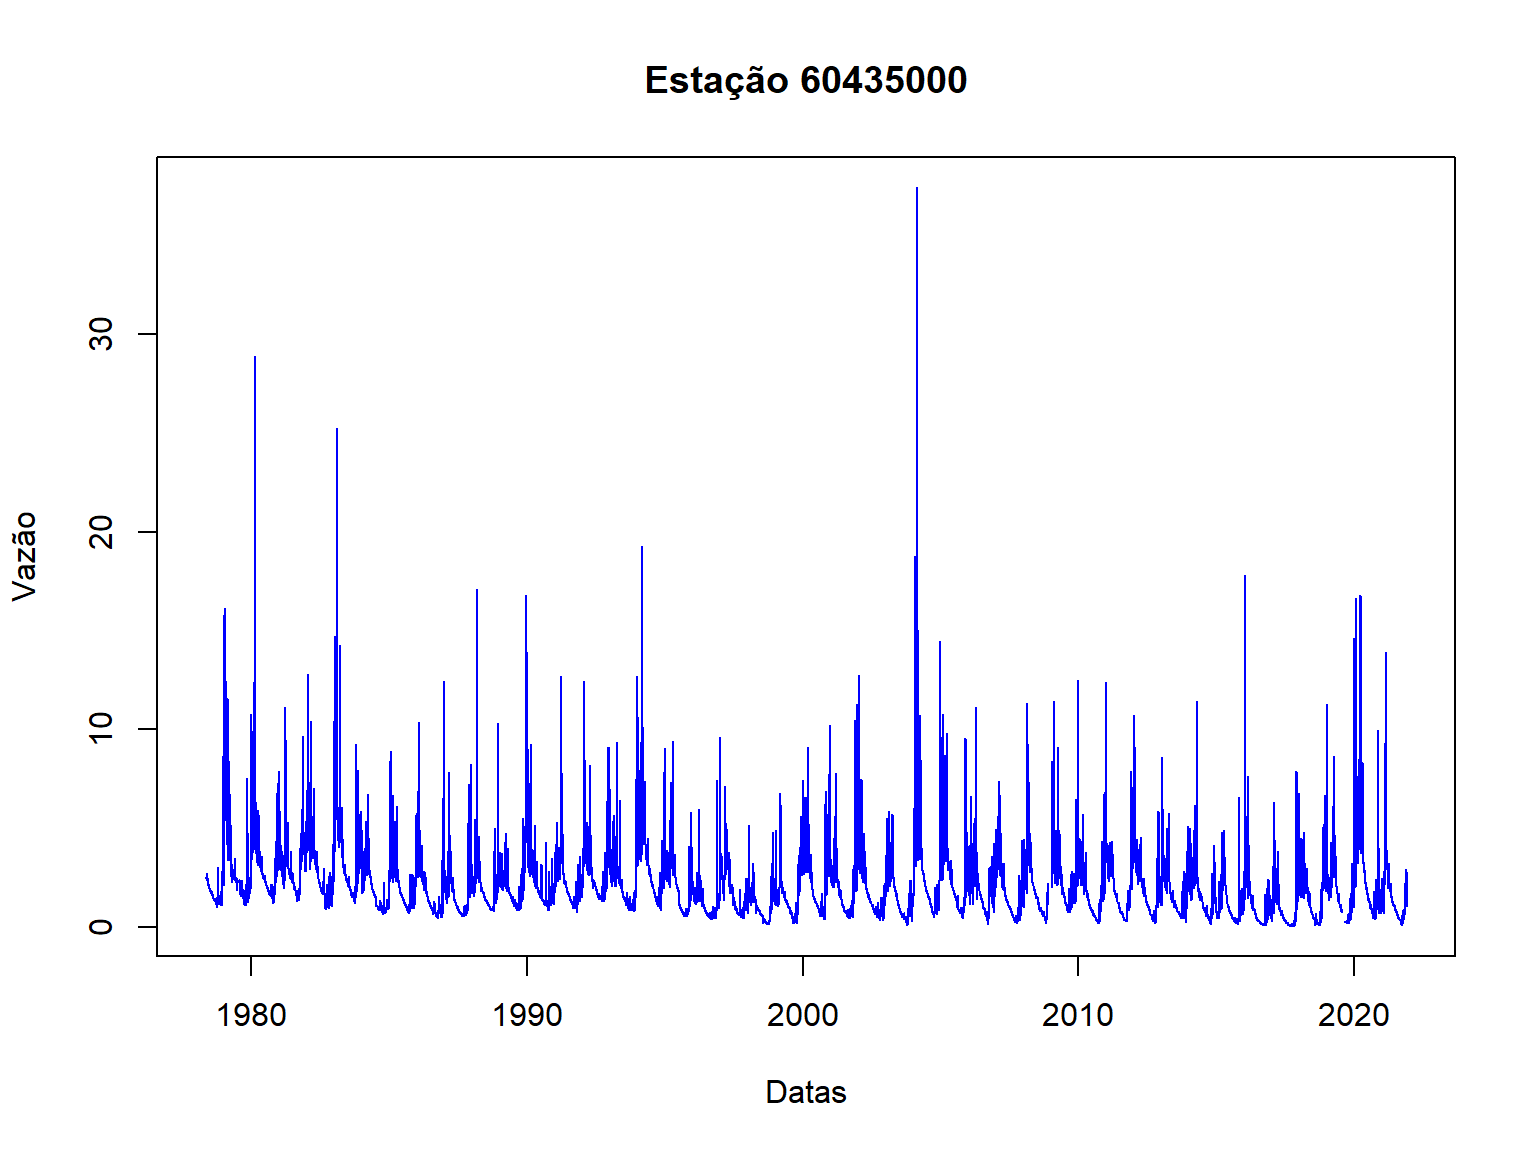
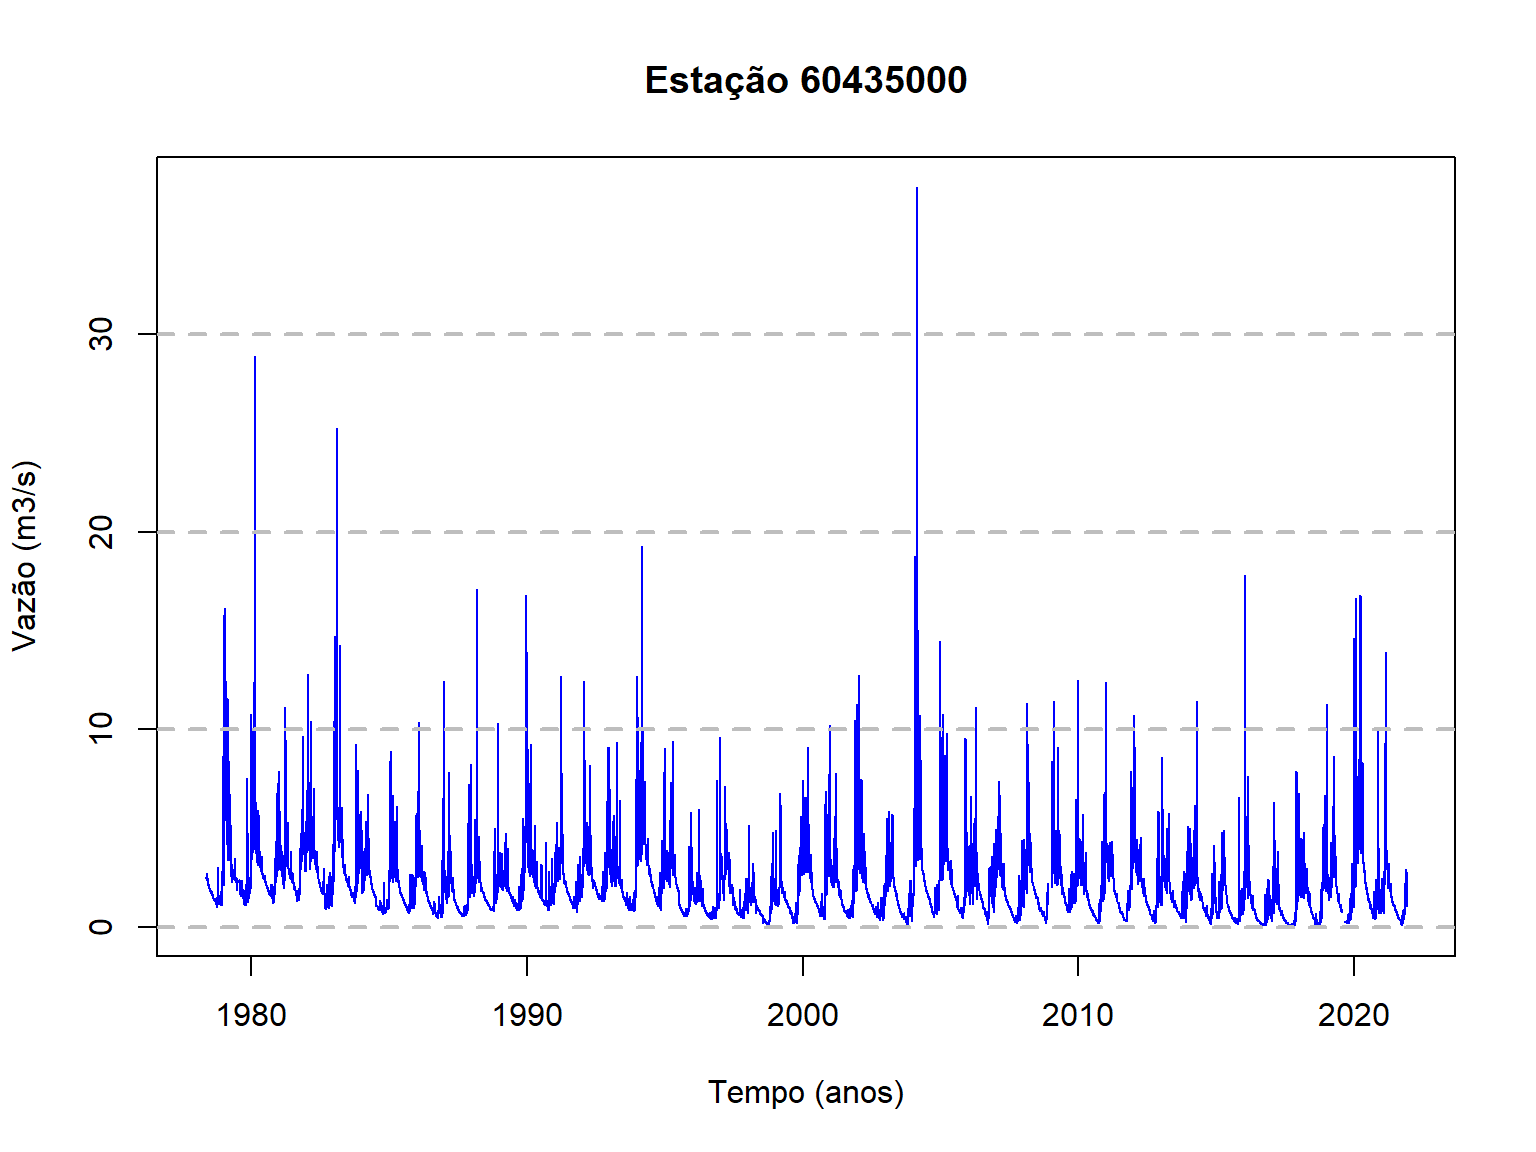
atualização do data_explore

Changed region(s): [[0.0, 0.4062, 0.0312, 0.5625], [0.4688, 0.9375, 0.5938, 0.9688]]

diff --git a/docs/data_explore.html b/docs/data_explore.html
@@ -2222,7 +2222,11 @@ formato <em>Date</em> (lembrar que o <strong>R</strong> vai ler ela
 automaticamente como <em>character</em>), podemos usar o argumento
 <strong>colClasses =</strong> para avisar ao <strong>R</strong> a classe
 de cada coluna. Além disso, vamos aproveitar e transformar a coluna de
-código das estações como fator.</p>
+código das estações como fator. Se não souber qual a classe uma coluna,
+pode-se botar <strong>NA</strong> - porém é importante notar que é
+<strong>obrigatório</strong> informar o tipo. Caso coloque menos
+argumentos no vetor do que o número de colunas, o <strong>R</strong> irá
+iterar sobre o vetor informado.</p>
 <div class="layout-chunk" data-layout="l-body">
 <div class="sourceCode">
 <pre class="sourceCode r"><code class="sourceCode r"><span><span class='va'>dados_60435000</span> <span class='op'>&lt;-</span> <span class='fu'><a href='https://rdrr.io/r/utils/read.table.html'>read.table</a></span><span class='op'>(</span>file <span class='op'>=</span> <span class='st'>"dados/60435000.txt"</span>,</span>
@@ -2237,7 +2241,7 @@ código das estações como fator.</p>
 <span>                          dec <span class='op'>=</span> <span class='st'>"."</span>,</span>
 <span>                          header <span class='op'>=</span> <span class='cn'>T</span>,</span>
 <span>                          fileEncoding <span class='op'>=</span> <span class='st'>"UTF-8"</span>,</span>
-<span>                          colClasses <span class='op'>=</span> <span class='fu'><a href='https://rdrr.io/r/base/c.html'>c</a></span><span class='op'>(</span><span class='st'>"factor"</span>, <span class='st'>"Date"</span>, <span class='st'>"numeric"</span><span class='op'>)</span><span class='op'>)</span></span>
+<span>                          colClasses <span class='op'>=</span> <span class='fu'><a href='https://rdrr.io/r/base/c.html'>c</a></span><span class='op'>(</span><span class='st'>"factor"</span>, <span class='st'>"Date"</span>, <span class='cn'>NA</span><span class='op'>)</span><span class='op'>)</span></span>
 <span>                          </span>
 <span><span class='va'>resumo_todas</span> <span class='op'>&lt;-</span> <span class='fu'><a href='https://rdrr.io/r/utils/read.table.html'>read.table</a></span><span class='op'>(</span>file <span class='op'>=</span> <span class='st'>"dados/Resumo_estacoes.txt"</span>,</span>
 <span>                           sep <span class='op'>=</span> <span class='st'>"\t"</span>,</span>
@@ -2265,13 +2269,13 @@ uma estação. Na etapa seguinte, expandiremos para um conjunto de quatro
 estações selcionadas na aula anterior.</p>
 <p>Faremos um gráfico do tipo <strong>heatmap</strong>, que é
 basicamente uma figura que coloca cores numa Tabela. Neste primeiro
-passo, para cada estação, faremos um <strong>hetamap</strong> das vazões
+passo, para cada estação, faremos um <strong>heatmap</strong> das vazões
 médias mensais com os anos no eixo-y e os meses no eixo-x. A tonalidade
 das cores estará associada à magnitude da vazão média do mês em questão.
-Quando mês não possui vazão, a região do mês correspodente ficará
+Quando o mês não possui vazão, a região do mês correspodente ficará
 branca.</p>
-<p>O resulatdo final permite visualizar, dentro de uma faixa de anos, a
-maginitude das vazões por meio de cores, e também a ocorrência de falhas
+<p>O resultado final permite visualizar, dentro de uma faixa de anos, a
+magnitude das vazões por meio de cores, e também a ocorrência de falhas
 nos registros, permitindo reconhecer de cara a sazonalidade das vazões,
 com cores mais fortes no período úmido e cores mais suaves no período
 seco.</p>
@@ -2444,19 +2448,43 @@ formas usando diferentes funções dentro do <strong>R</strong>.</p>
 <p><img src="data_explore_files/figure-html5/heatmap%20ggplot2-1.png" width="768" /></p>
 </div>
 <h2 id="plotagem-da-série-histórica">Plotagem da série histórica</h2>
+<p>Como estamos lidando com dadso de vazão, uma das primeira coisas a
+fazer é plotar a série histórica, o que permite visualizarmos a faxia de
+variação das vazões diárias, a presença de falhas na série e de valores
+muito diferentes do restante, podendo indicar a necessidade de uma
+verificação mais cuidados para confirmarmos que esses valores são
+realmente confiáveis.</p>
+<p>O <strong>R-base</strong> permite plotarmos facilmente a série
+histórica. O código abaixo é o mais simples de todo para realizar esse
+tipo de plotagem. Vea que informamos apenas as variáveis referentes aos
+eixos x e y.</p>
 <div class="layout-chunk" data-layout="l-body">
 <div class="sourceCode">
-<pre class="sourceCode r"><code class="sourceCode r"><span><span class='va'>time</span> <span class='op'>&lt;-</span> <span class='fu'><a href='https://rdrr.io/r/base/as.Date.html'>as.Date</a></span><span class='op'>(</span><span class='va'>dados_60435000</span><span class='op'>$</span><span class='va'>Data</span><span class='op'>)</span></span>
-<span><span class='fu'><a href='https://rdrr.io/r/graphics/plot.default.html'>plot</a></span><span class='op'>(</span><span class='va'>time</span>,<span class='va'>dados_60435000</span><span class='op'>$</span><span class='va'>Vazao</span>,type<span class='op'>=</span><span class='st'>"l"</span>,</span>
-<span>     main <span class='op'>=</span> <span class='st'>"Vazões diárias - estação 60435000"</span>,</span>
-<span>     xlab <span class='op'>=</span> <span class='st'>"Anos"</span>,ylab <span class='op'>=</span> <span class='st'>"Q (m3/s)"</span><span class='op'>)</span></span>
+<pre class="sourceCode r"><code class="sourceCode r"><span><span class='fu'><a href='https://rdrr.io/r/graphics/plot.default.html'>plot</a></span><span class='op'>(</span>x <span class='op'>=</span> <span class='va'>dados_60435000</span><span class='op'>$</span><span class='va'>Data</span>,</span>
+<span>     y <span class='op'>=</span> <span class='va'>dados_60435000</span><span class='op'>$</span><span class='va'>Vazao</span><span class='op'>)</span></span></code></pre>
+</div>
+<p><img src="data_explore_files/figure-html5/grafico_1-1.png" width="768" /></p>
+</div>
+<p>A Figura gerada não é das mais atraentes, já que o <strong>R</strong>
+faz suas próprias escolhas, já que não definimos uma gama enorme de
+argumentos existentes. É possível fazer um esforço na tentativa de gerar
+uma Figura um pouco mais atraente, incluindo nomes para os eixos e
+título da Figura, espessura da linha, linhas de grade etc,</p>
+<div class="layout-chunk" data-layout="l-body">
+<div class="sourceCode">
+<pre class="sourceCode r"><code class="sourceCode r"><span><span class='fu'><a href='https://rdrr.io/r/graphics/plot.default.html'>plot</a></span><span class='op'>(</span>x <span class='op'>=</span> <span class='va'>dados_60435000</span><span class='op'>$</span><span class='va'>Data</span>,</span>
+<span>     y <span class='op'>=</span> <span class='va'>dados_60435000</span><span class='op'>$</span><span class='va'>Vazao</span>,</span>
+<span>     main <span class='op'>=</span> <span class='st'>"Estação 60435000"</span>,</span>
+<span>     xlab <span class='op'>=</span> <span class='st'>"Tempo (anos)"</span>, ylab <span class='op'>=</span> <span class='st'>"Vazão (m3/s)"</span>,</span>
+<span>     type <span class='op'>=</span> <span class='st'>"l"</span>,</span>
+<span>     col <span class='op'>=</span> <span class='st'>"blue"</span><span class='op'>)</span></span>
 <span><span class='co'># Adiciona grid horizontal apenas</span></span>
 <span><span class='fu'><a href='https://rdrr.io/r/graphics/grid.html'>grid</a></span><span class='op'>(</span>nx <span class='op'>=</span> <span class='cn'>NA</span>, ny <span class='op'>=</span> <span class='cn'>NULL</span>,</span>
 <span>     lty <span class='op'>=</span> <span class='fl'>2</span>,      <span class='co'># Grid line type</span></span>
 <span>     col <span class='op'>=</span> <span class='st'>"gray"</span>, <span class='co'># Grid line color</span></span>
 <span>     lwd <span class='op'>=</span> <span class='fl'>2</span><span class='op'>)</span>      <span class='co'># Grid line width</span></span></code></pre>
 </div>
-<p><img src="data_explore_files/figure-html5/grafico%20Dirceu-1.png" width="768" /></p>
+<p><img src="data_explore_files/figure-html5/grafico_2,%20-1.png" width="768" /></p>
 </div>
 <div class="layout-chunk" data-layout="l-body">
 <div class="sourceCode">
@@ -2481,29 +2509,8 @@ ggplot2</h2>
 <p>Diferentemente dos gráficos que podem ser feitos no <strong>R
 base</strong> (sem pacotes adicionais), o <strong>ggplot2</strong> atua
 um pouco diferente na forma em que é chamado. Por exemplo, se quisesse
-fazer um gráfico da série histórica da estação 60435000, poderíamos
-fazer sem pacotes.</p>
-<div class="layout-chunk" data-layout="l-body">
-<div class="sourceCode">
-<pre class="sourceCode r"><code class="sourceCode r"><span><span class='fu'><a href='https://rdrr.io/r/graphics/plot.default.html'>plot</a></span><span class='op'>(</span>x <span class='op'>=</span> <span class='va'>dados_60435000</span><span class='op'>$</span><span class='va'>Data</span>,</span>
-<span>     y <span class='op'>=</span> <span class='va'>dados_60435000</span><span class='op'>$</span><span class='va'>Vazao</span><span class='op'>)</span></span></code></pre>
-</div>
-<p><img src="data_explore_files/figure-html5/grafico_1-1.png" width="768" /></p>
-</div>
-<p>Também podemos mexer com alguns argumentos dessa função base para
-mudar coisas como o título, nome dos eixos, a cor e o tipo de gráfico
-(ponto x linha por exemplo).</p>
-<div class="layout-chunk" data-layout="l-body">
-<div class="sourceCode">
-<pre class="sourceCode r"><code class="sourceCode r"><span><span class='fu'><a href='https://rdrr.io/r/graphics/plot.default.html'>plot</a></span><span class='op'>(</span>x <span class='op'>=</span> <span class='va'>dados_60435000</span><span class='op'>$</span><span class='va'>Data</span>,</span>
-<span>     y <span class='op'>=</span> <span class='va'>dados_60435000</span><span class='op'>$</span><span class='va'>Vazao</span>,</span>
-<span>     main <span class='op'>=</span> <span class='st'>"Estação 60435000"</span>,</span>
-<span>     xlab <span class='op'>=</span> <span class='st'>"Datas"</span>, ylab <span class='op'>=</span> <span class='st'>"Vazão"</span>,</span>
-<span>     type <span class='op'>=</span> <span class='st'>"l"</span>,</span>
-<span>     col <span class='op'>=</span> <span class='st'>"blue"</span><span class='op'>)</span></span></code></pre>
-</div>
-<p><img src="data_explore_files/figure-html5/grafico_2,%20-1.png" width="768" /></p>
-</div>
+fazer um gráfico da série histórica da estação
+<strong>60435000</strong>, poderíamos fazer sem pacotes.</p>
 <p>Já com a função <code>ggplot()</code> não adianta apenas definirmos
 em quem iremos mexer. Dentro dessa função existe um argumento chamado de
 <strong>aes</strong>. Ele vem do inglês, <em>aesthetics</em> e, como o
@@ -2776,9 +2783,7 @@ class="uri">https://ieeexplore.ieee.org/document/4118486</a></li>
 <h3 id="todas-as-cores-do-r">Todas as cores do R:</h3>
 <ul>
 <li><a href="http://www.stat.columbia.edu/~tzheng/files/Rcolor.pdf"
-class="uri">http://www.stat.columbia.edu/~tzheng/files/Rcolor.pdf</a>
-&gt;&gt;&gt;&gt;&gt;&gt;&gt;
-2aa96fc38fa716a70fee28c186be23697f6320d1</li>
+class="uri">http://www.stat.columbia.edu/~tzheng/files/Rcolor.pdf</a></li>
 </ul>
 <div class="sourceCode" id="cb7"><pre
 class="sourceCode r distill-force-highlighting-css"><code class="sourceCode r"></code></pre></div>
